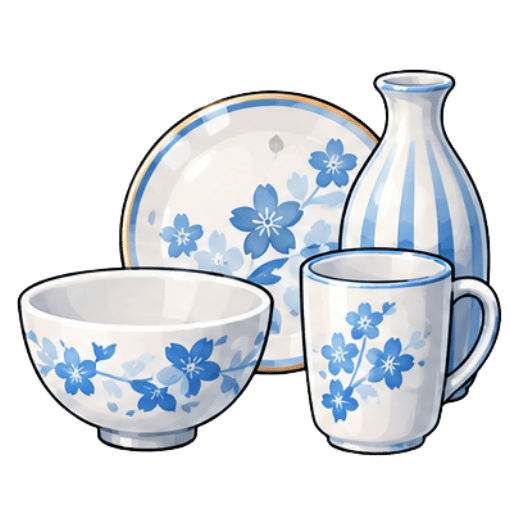
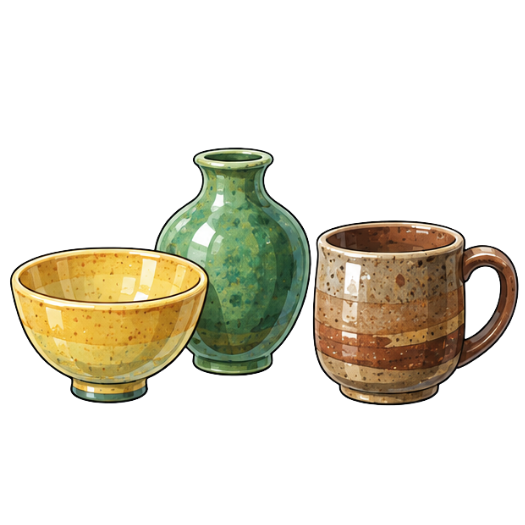
Add files via upload

diff --git a/factory.html b/factory.html
@@ -629,16 +629,16 @@
 
       { id: 'engine', icon: '🏎', name: '耐熱ECOエンジン', imgFile: 'seihin_enjin.png', materials: { 'Dy': 25, 'Sm': 25 }, reward: 9200, minLevel: 28, desc: 'ジスプロシウム×25, サマリウム×25' },
       { id: 'pet_scan', icon: '🔬', name: '最新型PETスキャン', imgFile: 'seihin_pet.png', materials: { 'Lu': 20, 'Gd': 20 }, reward: 10000, minLevel: 31, desc: 'ルテチウム×20, ガドリニウム×20' },
-      { id: 'super_motor', icon: '🚆', name: '超伝導リニアモーター', imgFile: 'seihin_mota.png', materials: { 'Nd': 25, 'Y': 25, 'Gd': 20 }, reward: 12000, minLevel: 34, desc: 'ネオジム×25, イットリウム×25, ガドリニウム×20' },
+      { id: 'super_motor', icon: '🚆', name: '超伝導リニアモーター', imgFile: 'seihin_rini.png', materials: { 'Nd': 25, 'Y': 25, 'Gd': 20 }, reward: 12000, minLevel: 34, desc: 'ネオジム×25, イットリウム×25, ガドリニウム×20' },
       { id: 'cancer_drug', icon: '💊', name: 'ナノ粒子がん治療薬', imgFile: 'seihin_ganzand.png', materials: { 'Lu': 25, 'Yb': 25 }, reward: 13500, minLevel: 37, desc: 'ルテチウム×25, イッテルビウム×25' },
 
       { id: 'airplane_body', icon: '✈', name: '超軽量飛行機ボディ', imgFile: 'seihin_hikoki.png', materials: { 'Sc': 30, 'Y': 20 }, reward: 15000, minLevel: 39, desc: 'スカンジウム×30, イットリウム×20' },
       { id: 'atomic_clock', icon: '⏱', name: '究極の光格子時計', imgFile: 'seihin_dokei.png', materials: { 'Yb': 40 }, reward: 18000, minLevel: 42, desc: 'イッテルビウム×40' },
-      { id: 'ai_core', icon: '🧠', name: '高性能AIニューラルコア', imgFile: 'seihin_pasokon.png', materials: { 'Eu': 30, 'Y': 30, 'Nd': 30 }, reward: 22000, minLevel: 45, desc: 'ユーロピウム×30, イットリウム×30, ネオジム×30' },
+      { id: 'ai_core', icon: '🧠', name: '高性能AIニューラルコア', imgFile: 'seihin_core.png', materials: { 'Eu': 30, 'Y': 30, 'Nd': 30 }, reward: 22000, minLevel: 45, desc: 'ユーロピウム×30, イットリウム×30, ネオジム×30' },
       { id: 'rocket_body', icon: '🚀', name: '宇宙ロケットフレーム', imgFile: 'seihin_rocket.png', materials: { 'Sc': 40, 'Dy': 30 }, reward: 28000, minLevel: 48, desc: 'スカンジウム×40, ジスプロシウム×30' },
 
-      { id: 'fusion_core', icon: '☀', name: '核融合炉プラズマ制御コア', imgFile: 'seihin_seigyo.png', materials: { 'Gd': 50, 'Sm': 50, 'Sc': 40 }, reward: 60000, minLevel: 49, desc: 'ガドリニウム×50, サマリウム×50, スカンジウム×40' },
-      { id: 'space_elevator', icon: '🗼', name: '宇宙エレベーター・ナノケーブル', imgFile: 'seihin_rocket.png', materials: { 'Sc': 60, 'Y': 60, 'Er': 50, 'Dy': 50 }, reward: 100000, minLevel: 50, desc: 'スカンジウム×60, イットリウム×60, エルビウム×50, ジスプロシウム×50' }
+      { id: 'fusion_core', icon: '☀', name: '核融合炉プラズマ制御コア', imgFile: 'seihin_pra.png', materials: { 'Gd': 50, 'Sm': 50, 'Sc': 40 }, reward: 60000, minLevel: 49, desc: 'ガドリニウム×50, サマリウム×50, スカンジウム×40' },
+      { id: 'space_elevator', icon: '🗼', name: '宇宙エレベーター・ナノケーブル', imgFile: 'seihin_ele.png', materials: { 'Sc': 60, 'Y': 60, 'Er': 50, 'Dy': 50 }, reward: 100000, minLevel: 50, desc: 'スカンジウム×60, イットリウム×60, エルビウム×50, ジスプロシウム×50' }
     ];
 
     recipes.forEach(r => {
